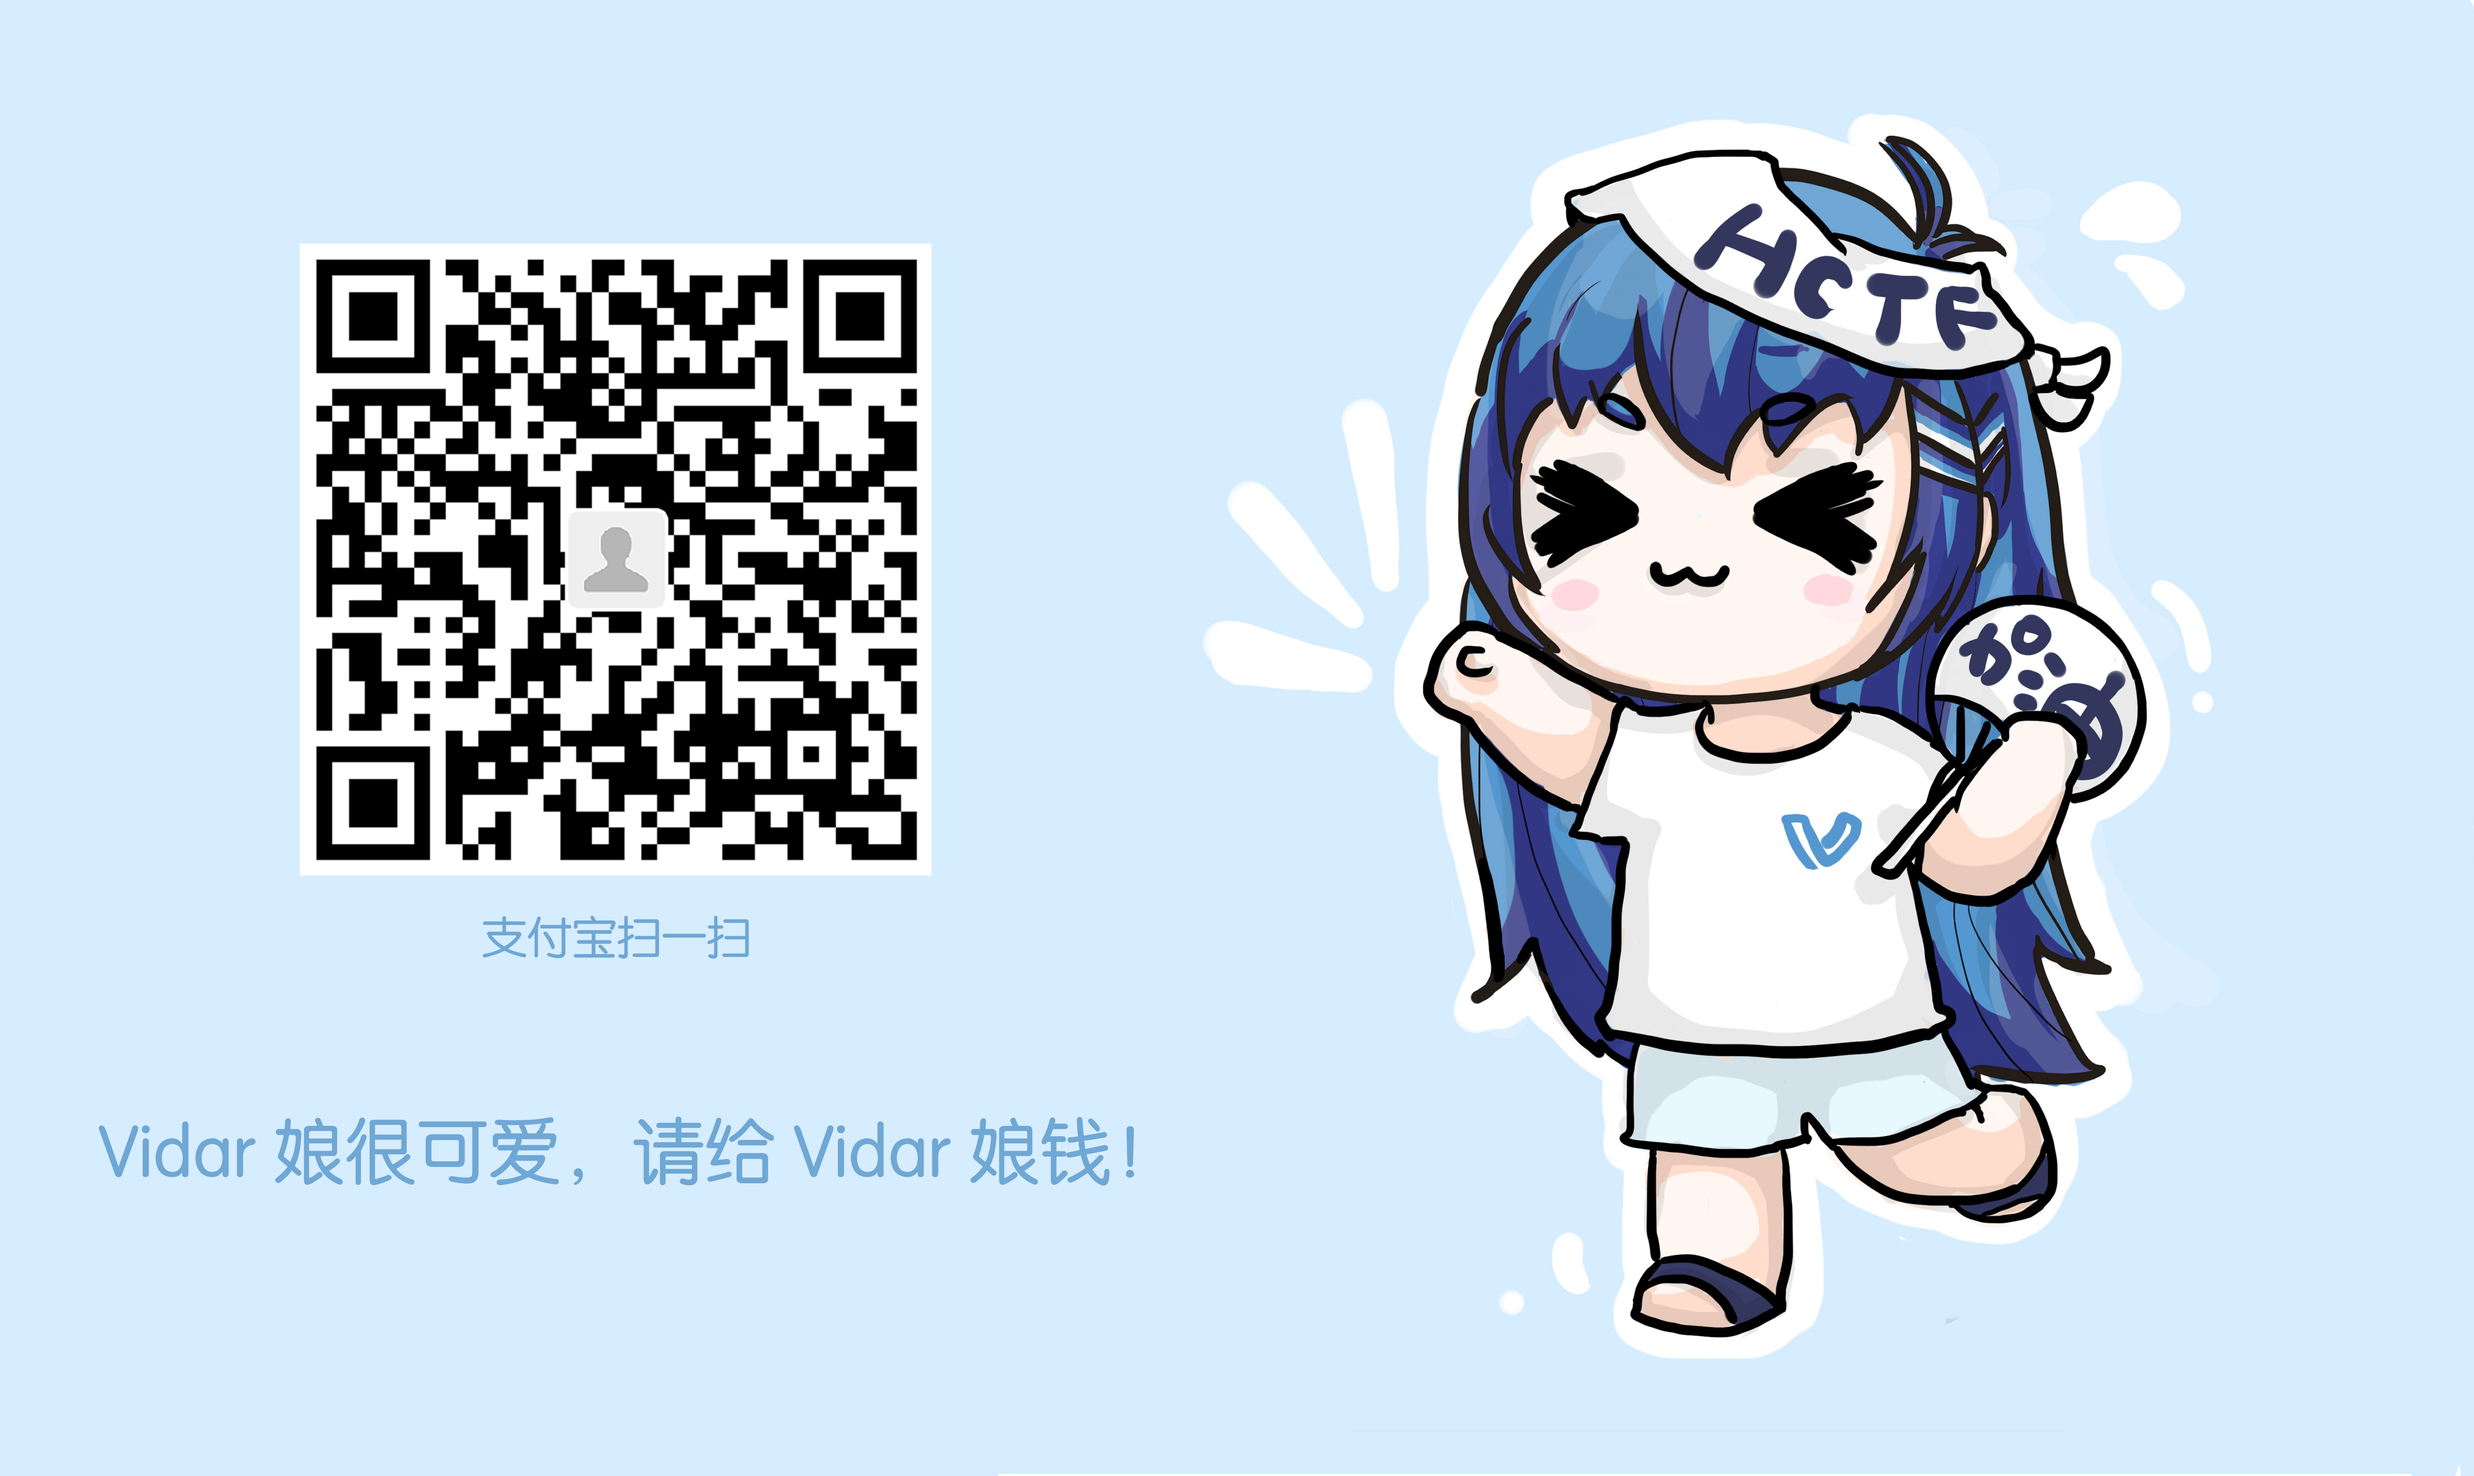
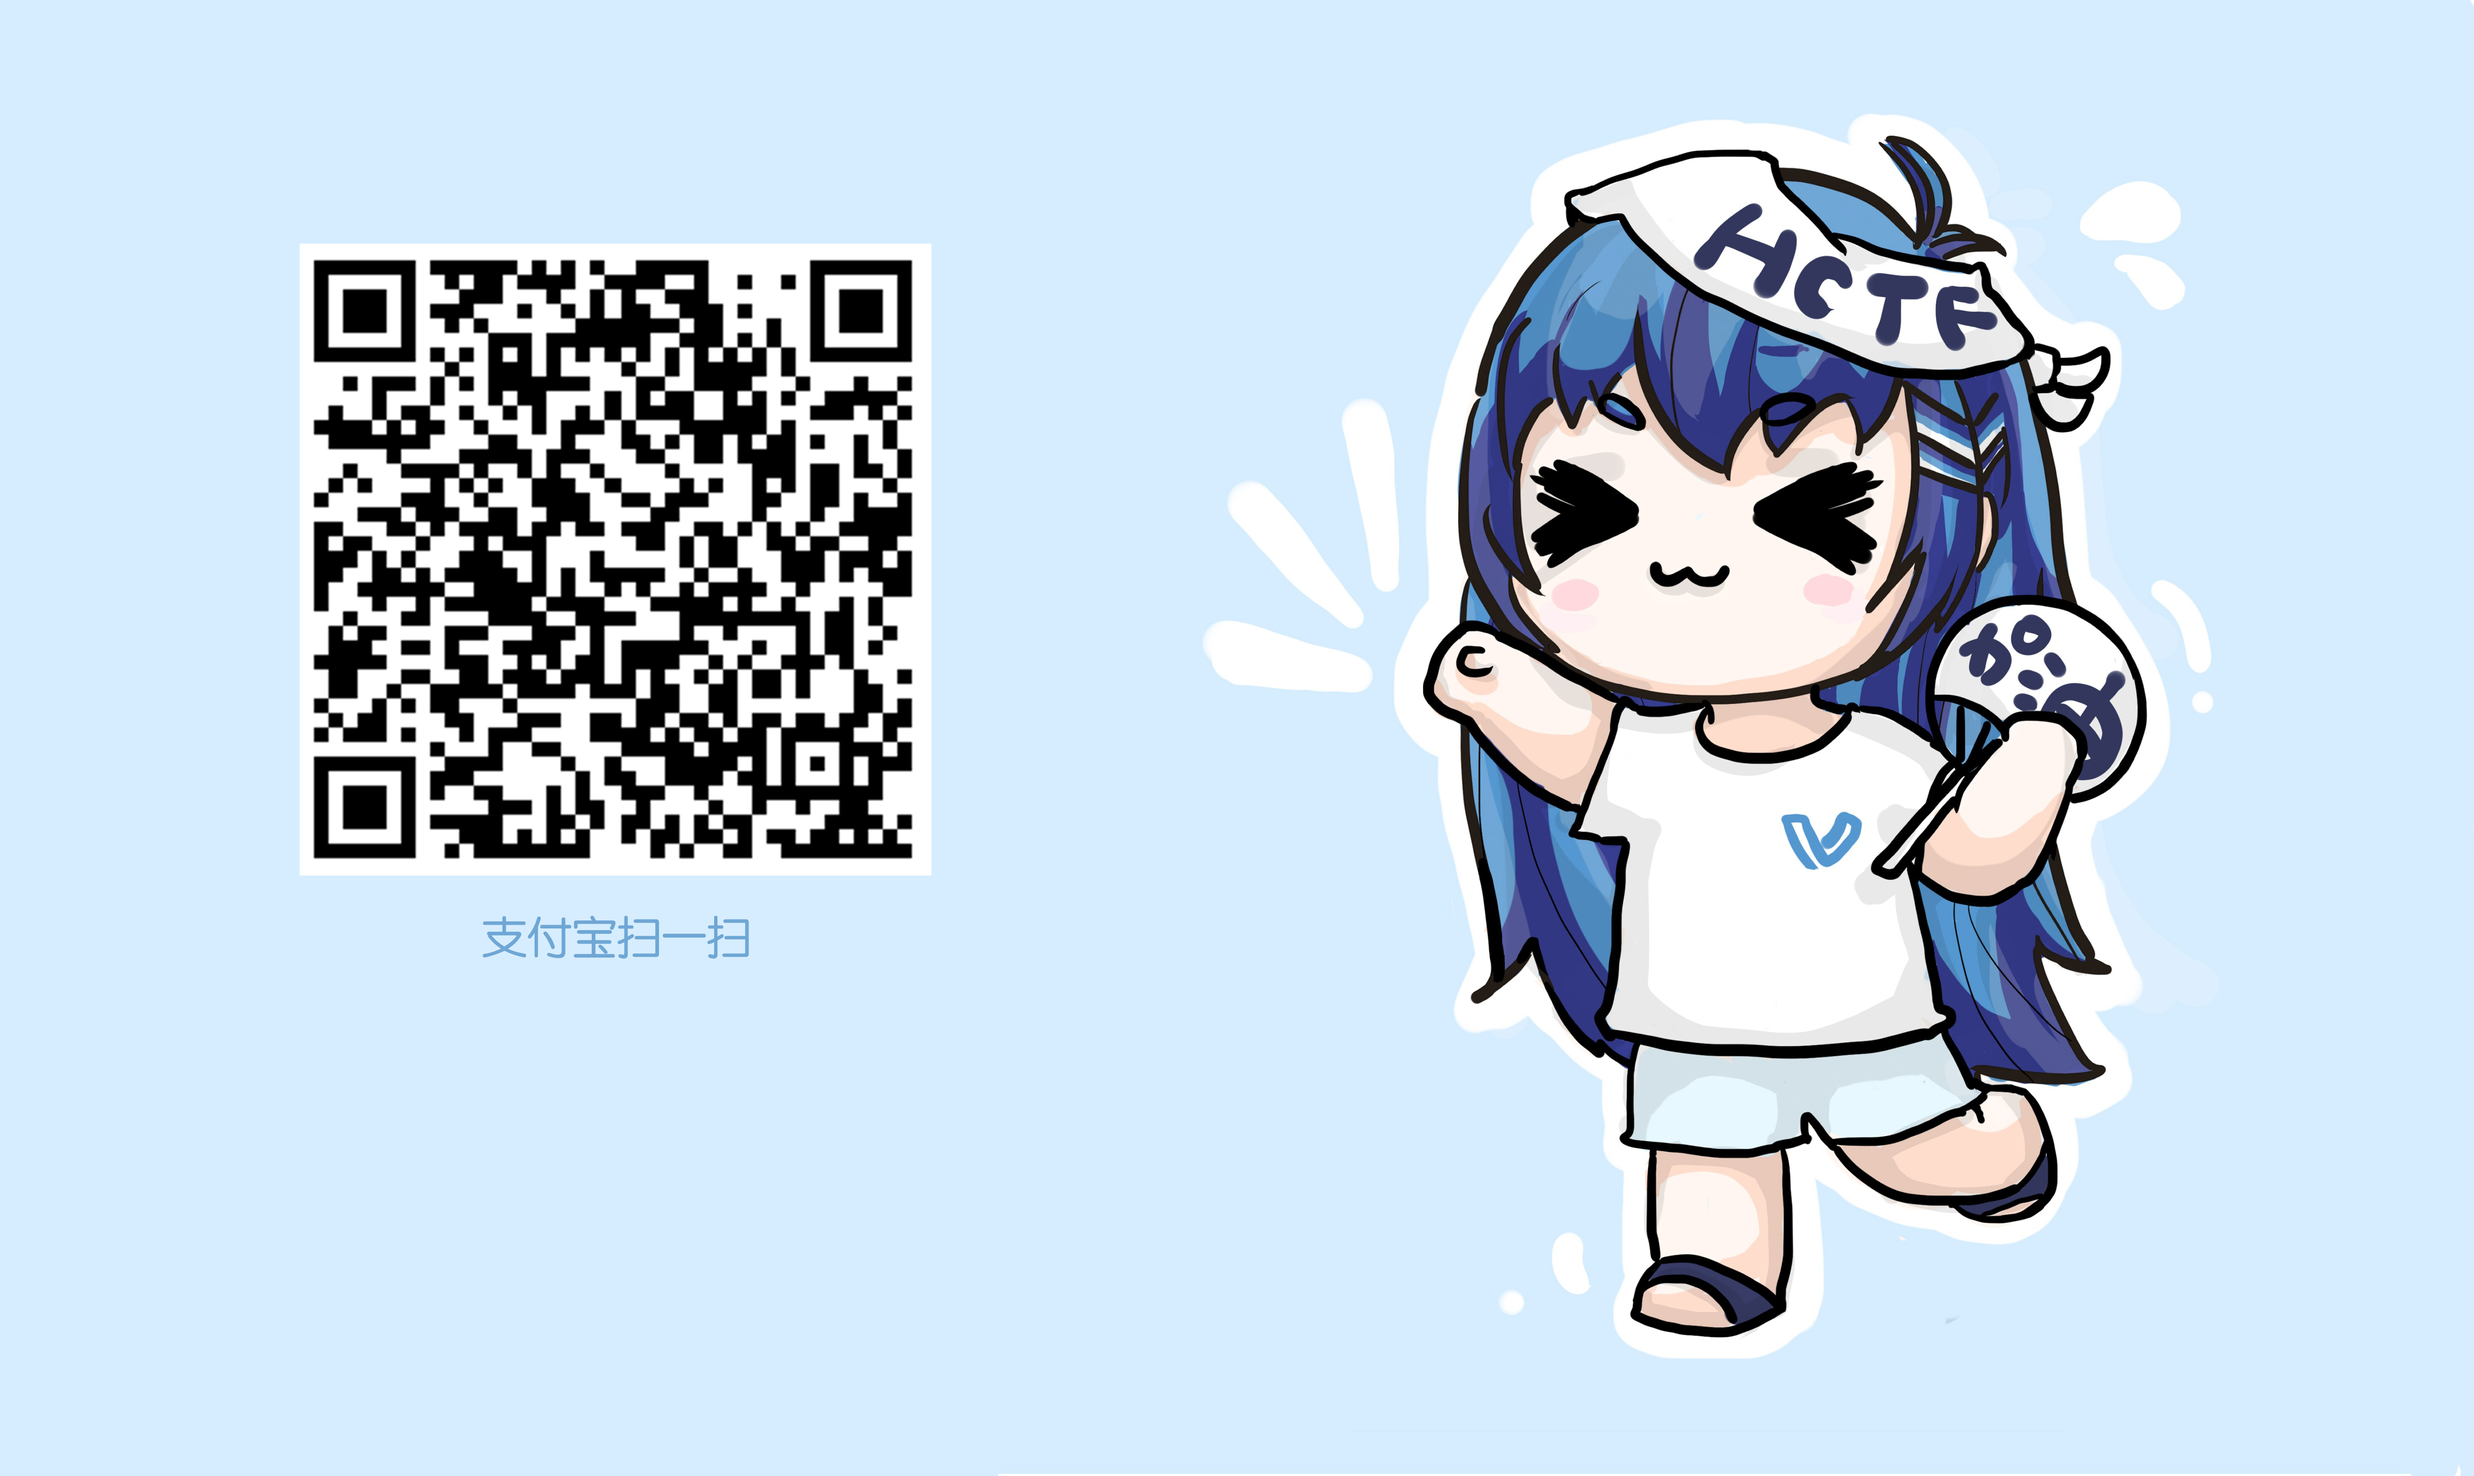
guide: update donate qrcode

Changed region(s): [[0.1245, 0.1554, 0.3735, 0.5905], [0.249, 0.7459, 0.4669, 0.8081], [0.0311, 0.7459, 0.2179, 0.8081]]

diff --git a/docs/guide/donate.md b/docs/guide/donate.md
@@ -4,7 +4,7 @@
 
 请注明您的名字或者昵称，方便我们感谢 ♪(･ω･)ﾉ
 
-
+[Alipay_QRCode](../vuepress/public/img/Vidarchan_qiafan.jpg)
 
 ## 感谢
 
